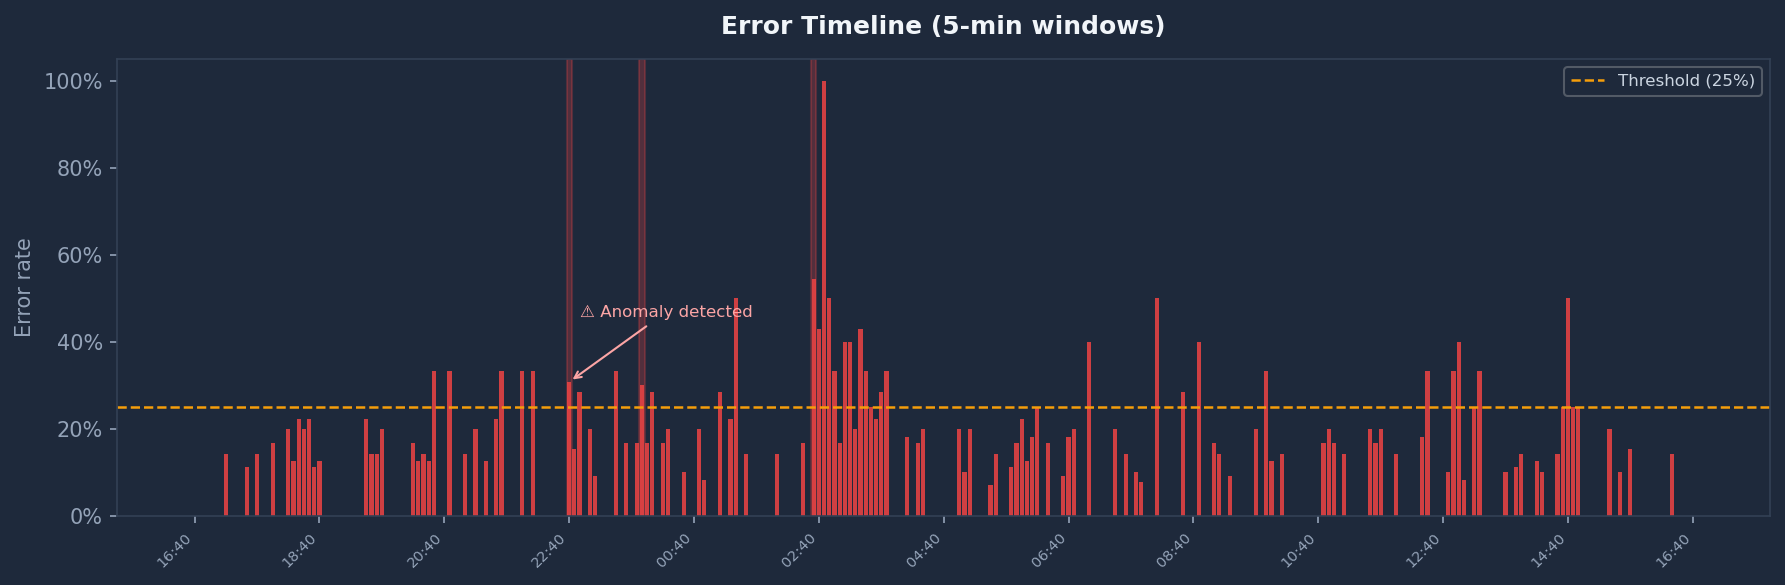
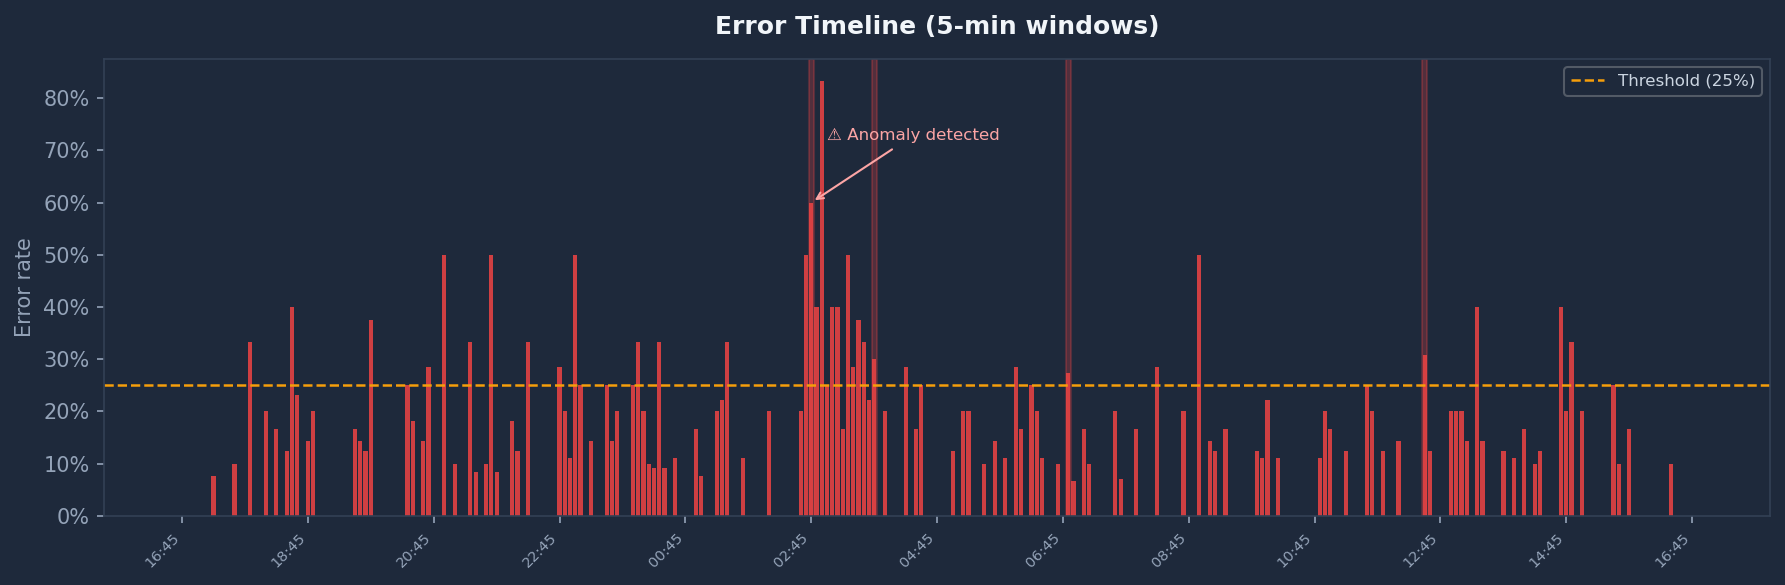
Fix anomaly annotation: point to worst spike by error rate, not first chronologically

diff --git a/visualise.py b/visualise.py
@@ -116,16 +116,22 @@ def plot_error_timeline(df: pd.DataFrame, spikes: list[dict], threshold: float =
     x = range(len(grouped))
     ax.bar(x, grouped['error_rate'], color='#EF4444', width=0.8, alpha=0.85)
 
-    annotated = False
+    # Find the worst spike (highest error rate) to annotate — the first
+    # spike chronologically is often random noise; the injected anomaly
+    # is the tallest sustained cluster, which is what the annotation should explain.
+    worst_idx, worst_rate = None, 0
     for i, (_, row) in enumerate(grouped.iterrows()):
         if str(row['minute_window']) in spike_windows:
             ax.axvspan(i - 0.5, i + 0.5, alpha=0.25, color='#EF4444')
-            if not annotated:
-                ax.annotate('⚠ Anomaly detected', xy=(i, row['error_rate']),
-                            xytext=(i + 2, min(row['error_rate'] + 0.15, 0.95)),
-                            color='#FCA5A5', fontsize=8,
-                            arrowprops=dict(arrowstyle='->', color='#FCA5A5', lw=1))
-                annotated = True
+            if row['error_rate'] > worst_rate:
+                worst_rate, worst_idx = row['error_rate'], i
+
+    if worst_idx is not None:
+        offset_x = worst_idx - 8 if worst_idx > len(grouped) // 2 else worst_idx + 3
+        ax.annotate('⚠ Anomaly detected', xy=(worst_idx, worst_rate),
+                    xytext=(offset_x, min(worst_rate + 0.12, 0.95)),
+                    color='#FCA5A5', fontsize=8,
+                    arrowprops=dict(arrowstyle='->', color='#FCA5A5', lw=1))
 
     ax.axhline(threshold, color='#F59E0B', linestyle='--', linewidth=1.2,
                label=f'Threshold ({threshold:.0%})')